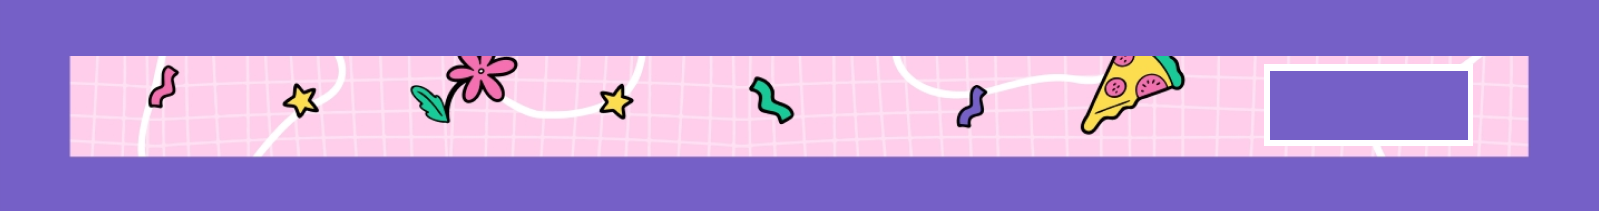
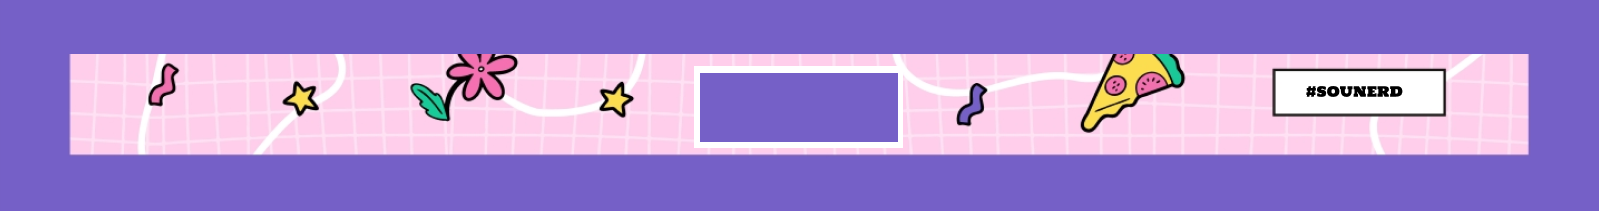
Ajuste Footer

diff --git a/src/components/Footer/Footer.css b/src/components/Footer/Footer.css
@@ -9,14 +9,13 @@
 
 .footer .icons {
     display: flex;
-    justify-content: right;
-    margin-right: 140px;
-    margin-top: -125px;
+    justify-content: center;
+    margin-top: -118px;
 }
 
 .footer .icons .icons-img {
-    width: 64px;
-    height: 64px;
+    width: 55px;
+    height: 55px;
 }
 
 
